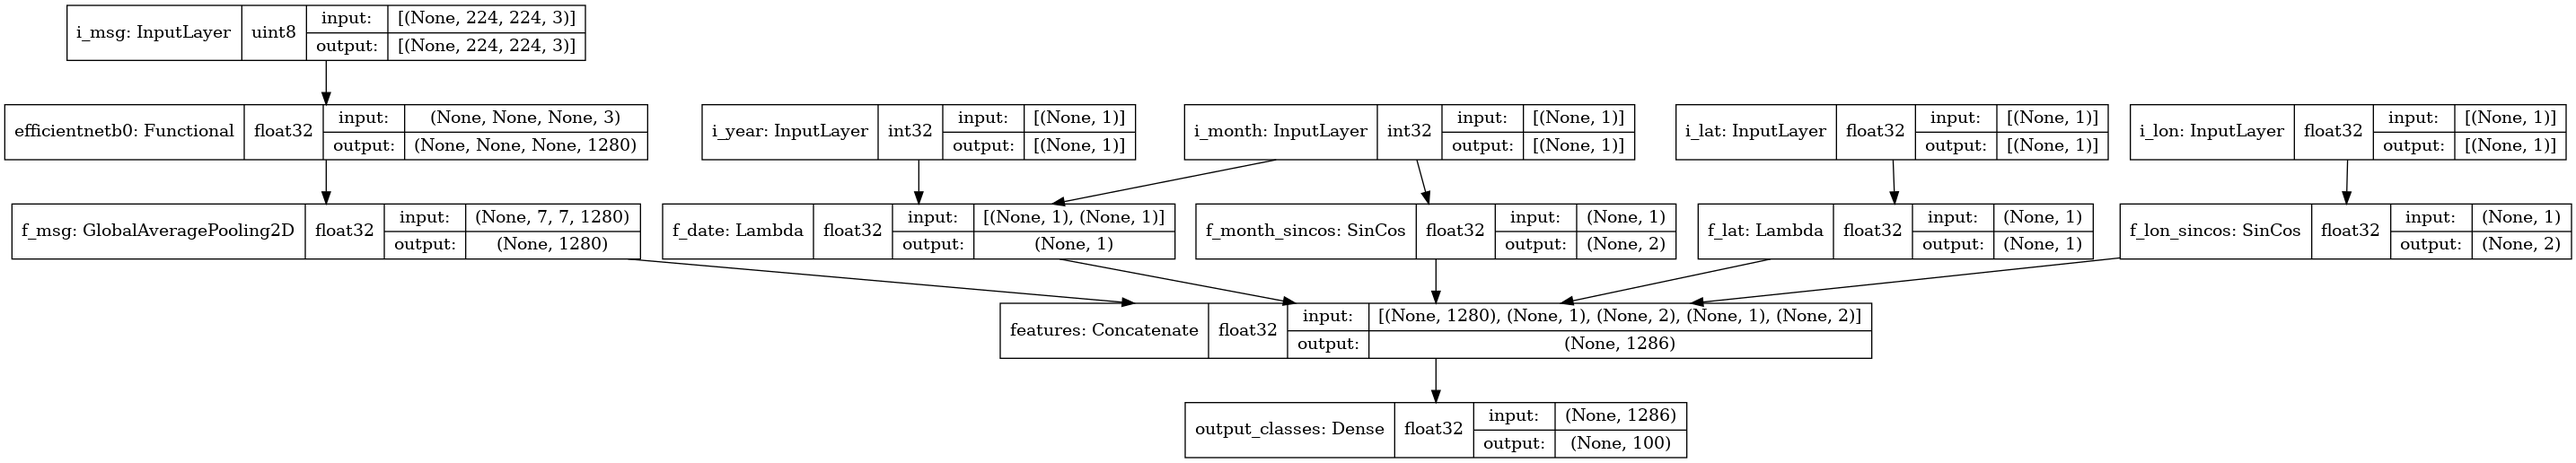
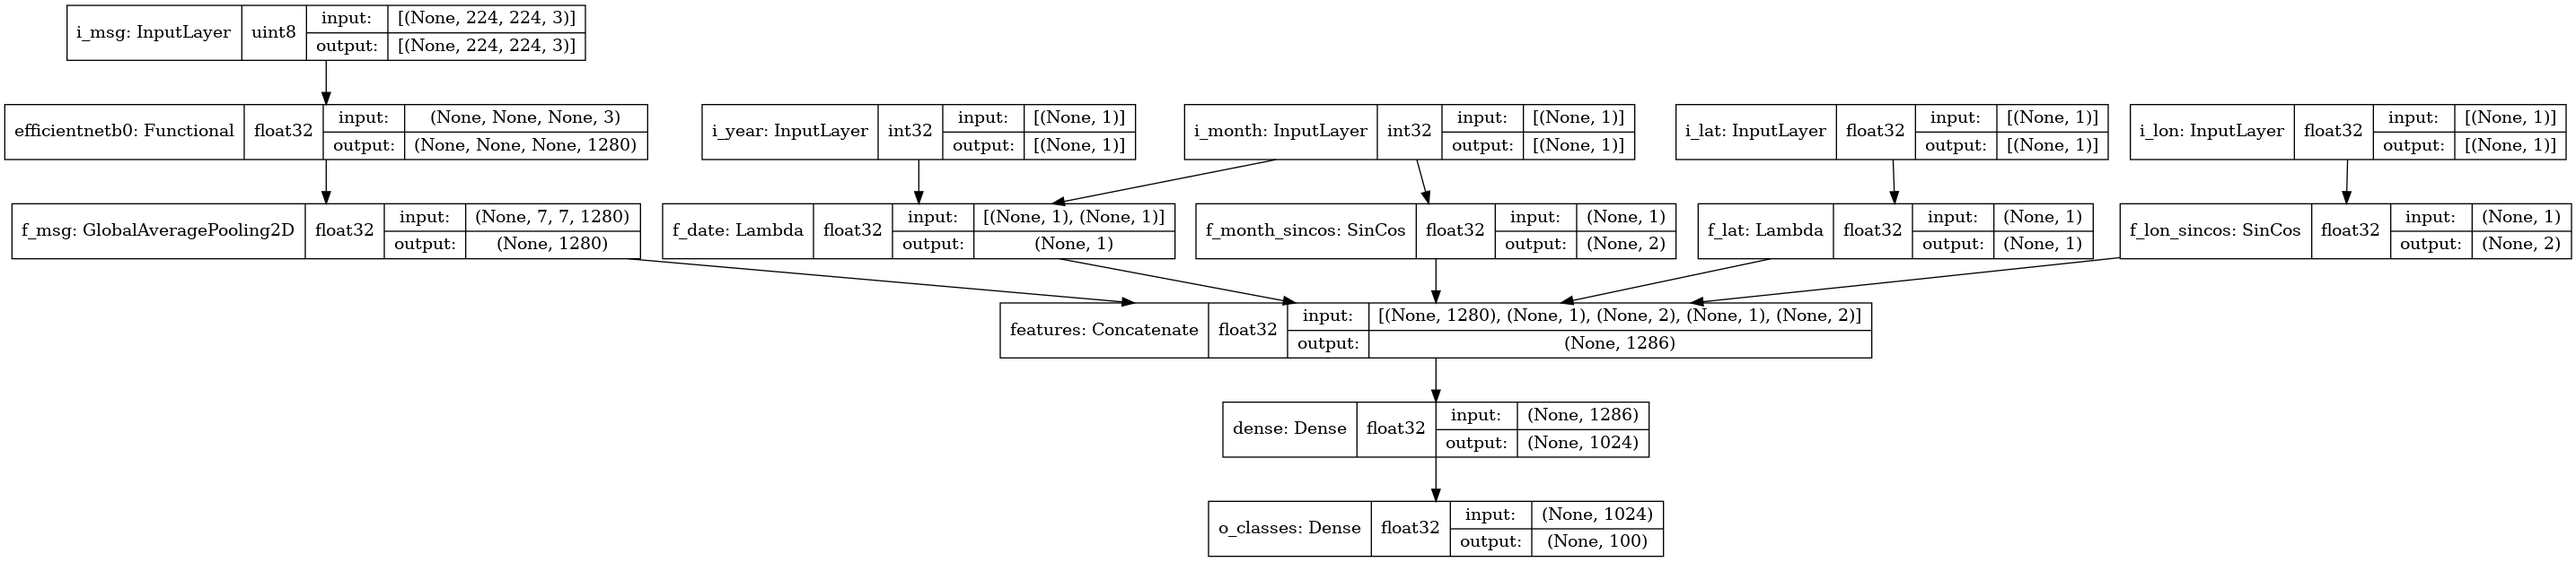
Update

Changed region(s): [[0.0, 0.0, 1.0, 0.8372], [0.4653, 0.8682, 0.6514, 0.9922]]

diff --git a/cli/create_dataset.run.py b/cli/create_dataset.run.py
@@ -13,6 +13,7 @@ import numpy as np
 import pandas as pd
 from lib.utils import fix_random_seed, list_indexes, write_json
 from src.config import c
+from src.data_utils import rectify_class_counts
 from tqdm import tqdm
 
 # region: read arguments
@@ -43,6 +44,15 @@ parser.add_argument(
     help="Probability value to assign to secondary labels in one-hots",
 )
 
+parser.add_argument(
+    "--rectify_class_balance",
+    type=float,
+    default=[1.5, 0.25],
+    nargs="+",
+    help="Randomly drop rows with too many entries (> mean*[0]). "
+    + 'Repeat rows with too little entries (< mean*[1]). Set to "0" to disable',
+)
+
 args = parser.parse_args()
 print(f"* Arguments:\n{pformat(vars(args))}")
 # endregion
@@ -58,9 +68,28 @@ df = pd.DataFrame()
 for csv in args.in_csvs:
     curr_df = pd.read_csv(csv)
     df = df.append(curr_df, ignore_index=True)  # type: ignore
-    print(f'* Added "{csv}" with {curr_df.shape[0]:,} rows')
+    print(f'* Added "{csv}" with {curr_df.shape[0]:,} rows')  # type: ignore
 
 print(f"* Total rows: {df.shape[0]:,}")
+
+# region: rectify class balance
+
+if len(args.rectify_class_balance) == 2:
+    mean = np.mean(df["_primary_labels"].value_counts())
+    max_items = int(mean * args.rectify_class_balance[0])
+    min_items = int(mean * args.rectify_class_balance[1])
+    print(f"* Rectifying class balance with max={max_items}, min={min_items}...")
+
+    df = rectify_class_counts(
+        df,
+        max_items=max_items,
+        min_items=min_items,
+        class_col="_primary_labels",
+    )
+
+    print(f"* Total {df.shape[0]:,} clips")
+
+# endregion
 
 # region: read and convert labels
 

diff --git a/src/models.py b/src/models.py
@@ -10,9 +10,14 @@ class MSG_Model_Builder:
         self,
         n_classes,
         body="enb0",
+        extra_dense_layers=[
+            1,
+            1024,
+        ],  # number and dimensions for extra dense layers in the head. None = no extra layers.
     ):
         self._body = body
         self._n_classes = n_classes
+        self._extra_dense_layers = extra_dense_layers
 
     def build(self):
 
@@ -105,10 +110,20 @@ class MSG_Model_Builder:
         )
 
         # classifier head
+        x = features
 
-        output_classes = keras.layers.Dense(
-            self._n_classes, name="output_classes", activation="sigmoid"
-        )(features)
+        if self._extra_dense_layers is not None:
+            for _ in range(self._extra_dense_layers[0]):
+                x = keras.layers.Dense(
+                    self._extra_dense_layers[1],
+                    activation="relu",
+                )(x)
+
+        o_classes = keras.layers.Dense(
+            self._n_classes,
+            name="o_classes",
+            activation="sigmoid",
+        )(x)
 
         # model
 
@@ -120,5 +135,5 @@ class MSG_Model_Builder:
                 i_lat,
                 i_lon,
             ],
-            outputs=[output_classes],
+            outputs=[o_classes],
         )

diff --git a/cli/prepare_short.run.py b/cli/prepare_short.run.py
@@ -60,7 +60,7 @@ parser.add_argument(
 parser.add_argument(
     "--rectify_class_balance",
     type=float,
-    default=[1.5, 0.25],
+    default=[0],
     nargs="+",
     help="Randomly drop rows with too many entries (> mean*[0]). "
     + 'Repeat rows with too little entries (< mean*[1]). Set to "0" to disable',
@@ -155,8 +155,8 @@ df["_primary_labels"] = primary_labels
 df["_secondary_labels"] = secondary_labels
 # endregion
 
-# region: add date coarsened to month
-print("* Adding coarsened dates...")
+# region: add month, year
+print("* Adding monts and years...")
 
 months = []
 years = []

diff --git a/cli/prepare_long.run.py b/cli/prepare_long.run.py
@@ -99,7 +99,6 @@ if args.split_multilabel:
                     extra_df = extra_df.append(row, ignore_index=True)
 
 df = df.append(extra_df[df.columns], ignore_index=True)  # type: ignore
-# newdf.to_csv("newdf.csv", index=True)
 
 # endregion
 
